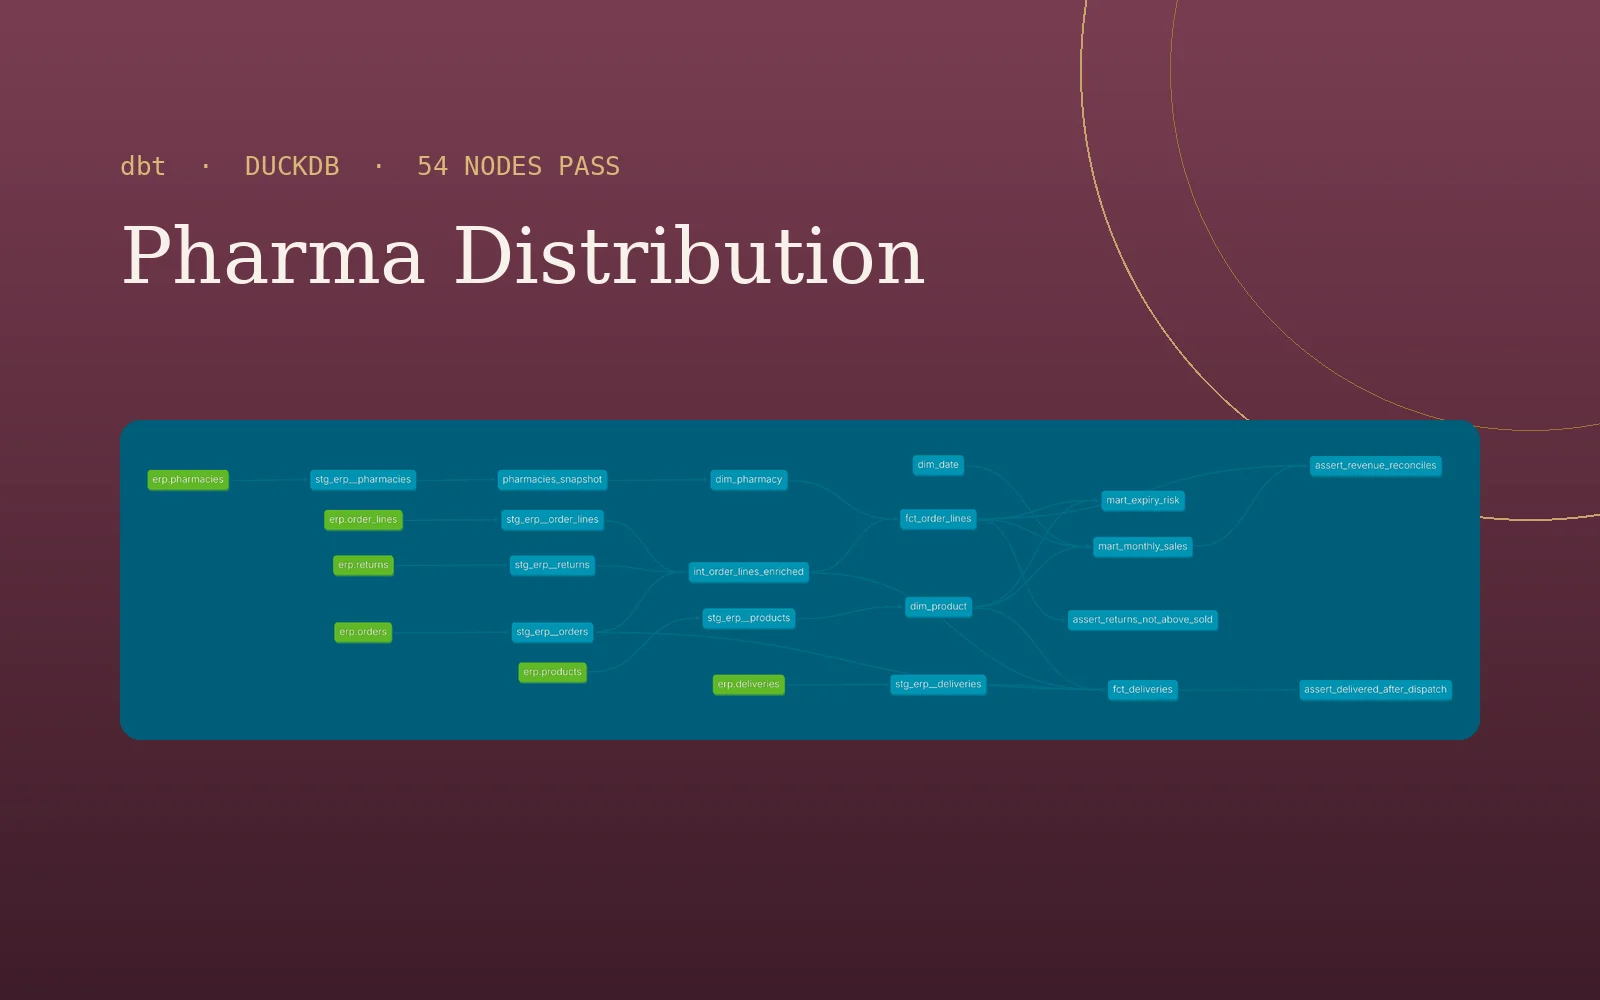
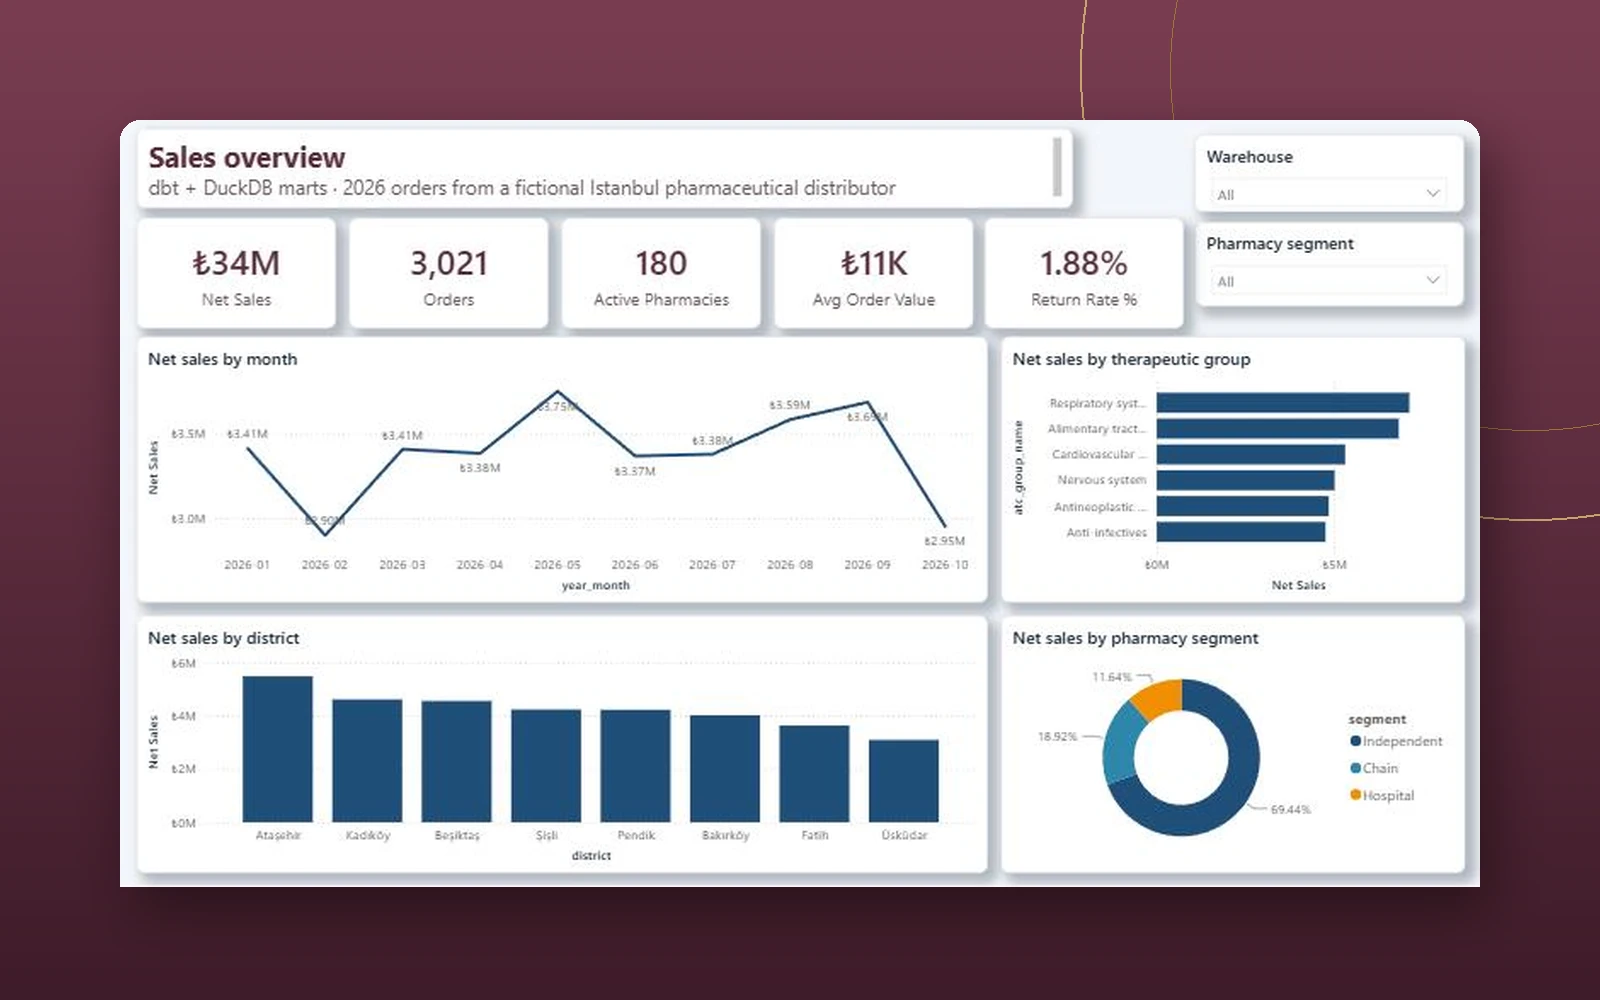
Pharma cover from Power BI report; remove screenshot galleries

diff --git a/src/assets/app.js b/src/assets/app.js
@@ -80,12 +80,12 @@
   function showPreview() {
     const p = projects.find(x => x.slug === pList[pIdx]); if (!p) return;
     $('#preview-content').innerHTML = `
-      ${p.galleryHtml || `<div class="preview-lg">${p.vizHtml}</div>`}
+      <div class="preview-lg">${p.vizHtml}</div>
       <div class="card-cat">${esc(p.categoryLabel)}${p.status === 'progress' ? ' <span class="badge">In progress</span>' : ''}</div>
       <h3>${esc(p.title)}</h3>
       <p class="muted">${esc(p.summary)}</p>
       <div class="tags" style="margin:14px 0 20px">${p.tools.map(t => `<span>${esc(t)}</span>`).join('')}</div>
-      <div class="btns"><a class="btn btn-primary btn-sm" href="/projects/${p.slug}/">Follow the story</a>${p.repo ? `<a class="btn btn-sm" href="${p.repo}" target="_blank" rel="noopener">GitHub</a>` : ''}${p.dashboard ? `<a class="btn btn-sm" href="/dashboards/${p.slug}/">${p.galleryHtml ? 'Live report' : 'Report preview'}</a>` : ''}</div>`;
+      <div class="btns"><a class="btn btn-primary btn-sm" href="/projects/${p.slug}/">Follow the story</a>${p.repo ? `<a class="btn btn-sm" href="${p.repo}" target="_blank" rel="noopener">GitHub</a>` : ''}${p.dashboard ? `<a class="btn btn-sm" href="/dashboards/${p.slug}/">Report preview</a>` : ''}</div>`;
     $('#preview-count').textContent = `${pIdx + 1} / ${pList.length}`;
   }
   document.addEventListener('click', async e => {
@@ -204,10 +204,3 @@
   $$('#contact-form [required]').forEach(f => f.addEventListener('input', () => { f.parentElement.querySelector('.err').textContent = ''; }));
 })();
 
-/* screenshot galleries */
-document.addEventListener('click', e => {
-  const b = e.target.closest('.shot-thumbs button'); if (!b) return;
-  const g = b.closest('[data-shots]'); const img = g.querySelector('.shot-main img'); const cap = g.querySelector('.shot-main figcaption');
-  img.src = b.dataset.src; img.alt = b.dataset.cap; cap.textContent = b.dataset.cap;
-  g.querySelectorAll('.shot-thumbs button').forEach(x => x.removeAttribute('aria-current')); b.setAttribute('aria-current', 'true');
-});

diff --git a/src/assets/styles.css b/src/assets/styles.css
@@ -556,13 +556,3 @@ table.mini tr.drop td{text-decoration:line-through;color:var(--faint)}
 @media (max-width:650px){.pbi-frame{aspect-ratio:4/3}}
 .pbi-frame+.caption{margin-top:12px}
 
-/* report screenshot gallery */
-.shots{display:grid;gap:12px;margin-bottom:18px}
-.shot-main{margin:0;border:1px solid var(--line);border-radius:14px;overflow:hidden;background:#fff}
-.shot-main img{display:block;width:100%;height:auto}
-.shot-main figcaption{padding:10px 14px;font-size:13px;color:var(--muted);border-top:1px solid var(--line)}
-.shot-thumbs{display:grid;grid-template-columns:repeat(auto-fill,minmax(120px,1fr));gap:10px}
-.shot-thumbs button{all:unset;cursor:pointer;display:grid;gap:6px;font-size:12px;color:var(--muted);border-radius:10px;padding:4px;border:1px solid transparent}
-.shot-thumbs button img{width:100%;aspect-ratio:16/9;object-fit:cover;object-position:top left;border-radius:8px;border:1px solid var(--line);background:#fff}
-.shot-thumbs button[aria-current="true"]{border-color:var(--wine);color:var(--ink)}
-.shot-thumbs button:focus-visible{outline:2px solid var(--wine);outline-offset:2px}
